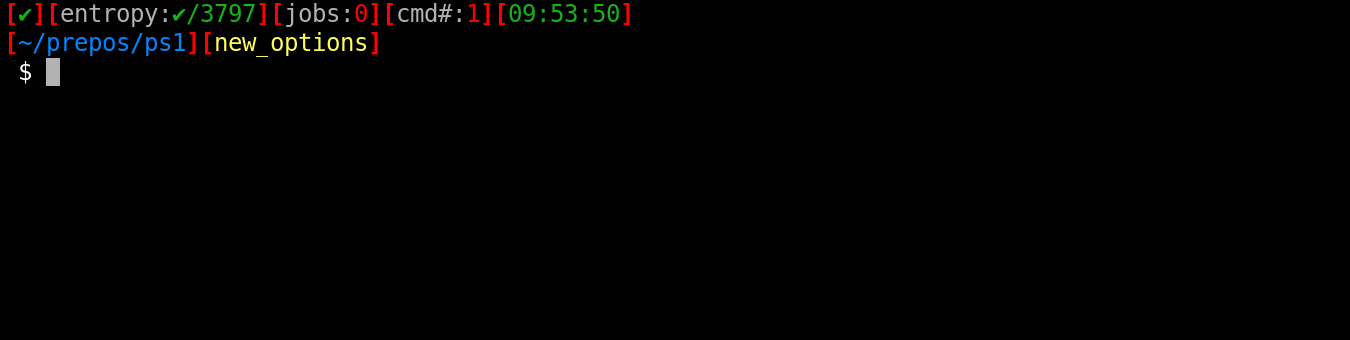
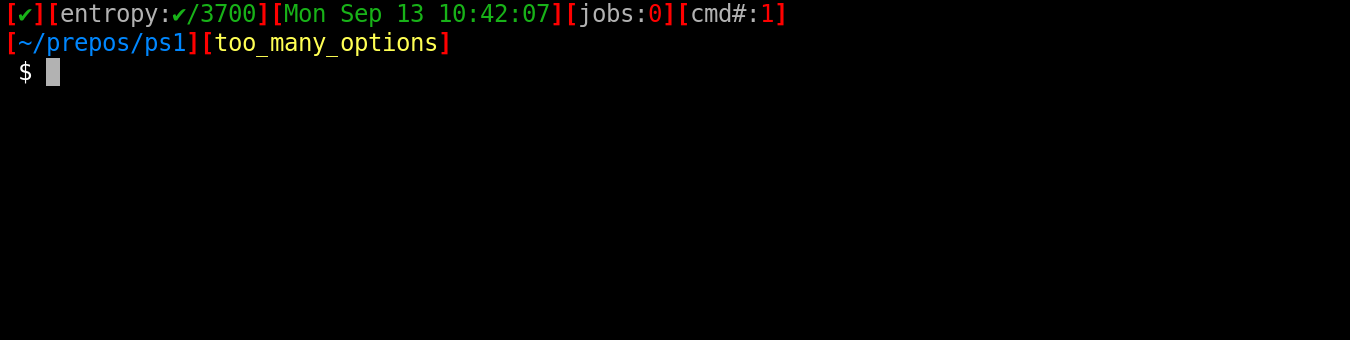
Added too_many_options example
Added option
    --add_date_time_24hr color title

Changed region(s): [[0.1556, 0.0, 0.5911, 0.1765]]

diff --git a/docs/nameIndex.html b/docs/nameIndex.html
@@ -36,7 +36,7 @@
         <h2>A</h2>
         <p class="letterlinks">A - <a href="#B">B</a> - <a href="#C">C</a> - <a href="#D">D</a> - <a href="#F">F</a> - <a href="#G">G</a> - <a href="#H">H</a> - <a href="#I">I</a> - <a href="#J">J</a> - <a href="#N">N</a> - <a href="#O">O</a> - <a href="#P">P</a> - <a href="#S">S</a> - <a href="#T">T</a> - <a href="#U">U</a> - <a href="#W">W</a> - <a href="#_">_</a></p>
         <ul id="summaryTree">
-          <li>add_bash_ver - <code data-type="Method"><a href="ps1api.Base.html#add_bash_ver">ps1api.Base.add_bash_ver</a></code></li><li>add_bash_ver_release - <code data-type="Method"><a href="ps1api.Base.html#add_bash_ver_release">ps1api.Base.add_bash_ver_release</a></code></li><li>add_cmd_num - <code data-type="Method"><a href="ps1api.Base.html#add_cmd_num">ps1api.Base.add_cmd_num</a></code></li><li>add_custom - <code data-type="Method"><a href="ps1api.Base.html#add_custom">ps1api.Base.add_custom</a></code></li><li>add_date_week_month_day - <code data-type="Method"><a href="ps1api.Base.html#add_date_week_month_day">ps1api.Base.add_date_week_month_day</a></code></li><li>add_exit_code - <code data-type="Method"><a href="ps1api.Base.html#add_exit_code">ps1api.Base.add_exit_code</a></code></li><li>add_git_branch - <code data-type="Method"><a href="ps1api.Base.html#add_git_branch">ps1api.Base.add_git_branch</a></code></li><li>add_hist_num - <code data-type="Method"><a href="ps1api.Base.html#add_hist_num">ps1api.Base.add_hist_num</a></code></li><li>add_host - <code data-type="Method"><a href="ps1api.Base.html#add_host">ps1api.Base.add_host</a></code></li><li>add_host_long - <code data-type="Method"><a href="ps1api.Base.html#add_host_long">ps1api.Base.add_host_long</a></code></li><li>add_jobs - <code data-type="Method"><a href="ps1api.Base.html#add_jobs">ps1api.Base.add_jobs</a></code></li><li>add_newline - <code data-type="Method"><a href="ps1api.Base.html#add_newline">ps1api.Base.add_newline</a></code></li><li>add_shell_name - <code data-type="Method"><a href="ps1api.Base.html#add_shell_name">ps1api.Base.add_shell_name</a></code></li><li>add_term_base - <code data-type="Method"><a href="ps1api.Base.html#add_term_base">ps1api.Base.add_term_base</a></code></li><li>add_time_12hr_am_pm - <code data-type="Method"><a href="ps1api.Base.html#add_time_12hr_am_pm">ps1api.Base.add_time_12hr_am_pm</a></code></li><li>add_time_12hr_with_second - <code data-type="Method"><a href="ps1api.Base.html#add_time_12hr_with_second">ps1api.Base.add_time_12hr_with_second</a></code></li><li>add_time_24 - <code data-type="Method"><a href="ps1api.Base.html#add_time_24">ps1api.Base.add_time_24</a></code></li><li>add_user - <code data-type="Method"><a href="ps1api.Base.html#add_user">ps1api.Base.add_user</a></code></li><li>add_user_host - <code data-type="Method"><a href="ps1api.Base.html#add_user_host">ps1api.Base.add_user_host</a></code></li><li>add_working_dir_basename - <code data-type="Method"><a href="ps1api.Base.html#add_working_dir_basename">ps1api.Base.add_working_dir_basename</a></code></li><li>add_working_directory - <code data-type="Method"><a href="ps1api.Base.html#add_working_directory">ps1api.Base.add_working_directory</a></code></li>
+          <li>add_bash_ver - <code data-type="Method"><a href="ps1api.Base.html#add_bash_ver">ps1api.Base.add_bash_ver</a></code></li><li>add_bash_ver_release - <code data-type="Method"><a href="ps1api.Base.html#add_bash_ver_release">ps1api.Base.add_bash_ver_release</a></code></li><li>add_cmd_num - <code data-type="Method"><a href="ps1api.Base.html#add_cmd_num">ps1api.Base.add_cmd_num</a></code></li><li>add_custom - <code data-type="Method"><a href="ps1api.Base.html#add_custom">ps1api.Base.add_custom</a></code></li><li>add_date_time_24hr - <code data-type="Method"><a href="ps1api.Base.html#add_date_time_24hr">ps1api.Base.add_date_time_24hr</a></code></li><li>add_date_week_month_day - <code data-type="Method"><a href="ps1api.Base.html#add_date_week_month_day">ps1api.Base.add_date_week_month_day</a></code></li><li>add_exit_code - <code data-type="Method"><a href="ps1api.Base.html#add_exit_code">ps1api.Base.add_exit_code</a></code></li><li>add_git_branch - <code data-type="Method"><a href="ps1api.Base.html#add_git_branch">ps1api.Base.add_git_branch</a></code></li><li>add_hist_num - <code data-type="Method"><a href="ps1api.Base.html#add_hist_num">ps1api.Base.add_hist_num</a></code></li><li>add_host - <code data-type="Method"><a href="ps1api.Base.html#add_host">ps1api.Base.add_host</a></code></li><li>add_host_long - <code data-type="Method"><a href="ps1api.Base.html#add_host_long">ps1api.Base.add_host_long</a></code></li><li>add_jobs - <code data-type="Method"><a href="ps1api.Base.html#add_jobs">ps1api.Base.add_jobs</a></code></li><li>add_newline - <code data-type="Method"><a href="ps1api.Base.html#add_newline">ps1api.Base.add_newline</a></code></li><li>add_shell_name - <code data-type="Method"><a href="ps1api.Base.html#add_shell_name">ps1api.Base.add_shell_name</a></code></li><li>add_term_base - <code data-type="Method"><a href="ps1api.Base.html#add_term_base">ps1api.Base.add_term_base</a></code></li><li>add_time_12hr_am_pm - <code data-type="Method"><a href="ps1api.Base.html#add_time_12hr_am_pm">ps1api.Base.add_time_12hr_am_pm</a></code></li><li>add_time_12hr_with_second - <code data-type="Method"><a href="ps1api.Base.html#add_time_12hr_with_second">ps1api.Base.add_time_12hr_with_second</a></code></li><li>add_time_24 - <code data-type="Method"><a href="ps1api.Base.html#add_time_24">ps1api.Base.add_time_24</a></code></li><li>add_user - <code data-type="Method"><a href="ps1api.Base.html#add_user">ps1api.Base.add_user</a></code></li><li>add_user_host - <code data-type="Method"><a href="ps1api.Base.html#add_user_host">ps1api.Base.add_user_host</a></code></li><li>add_working_dir_basename - <code data-type="Method"><a href="ps1api.Base.html#add_working_dir_basename">ps1api.Base.add_working_dir_basename</a></code></li><li>add_working_directory - <code data-type="Method"><a href="ps1api.Base.html#add_working_directory">ps1api.Base.add_working_directory</a></code></li>
         </ul>
       
         <a name="B">

diff --git a/docs/ps1api.Base.html b/docs/ps1api.Base.html
@@ -284,7 +284,12 @@
     
     <td>Method</td>
     <td><code><a href="#add_date_week_month_day">add_date_week_month_day</a></code></td>
-    <td><span>Add Date week month day.</span></td>
+    <td><span>Add Date week month day. :: Mon Sep 13</span></td>
+  </tr><tr class="method">
+    
+    <td>Method</td>
+    <td><code><a href="#add_date_time_24hr">add_date_time_24hr</a></code></td>
+    <td><span>Add the date/time, in 24-hour HH:MM:SS format. :: Mon Sep 13 10:28:40</span></td>
   </tr><tr class="method">
     
     <td>Method</td>
@@ -294,17 +299,17 @@
     
     <td>Method</td>
     <td><code><a href="#add_time_24">add_time_24</a></code></td>
-    <td><span>Add The time, in 24-hour HH:MM:SS format.</span></td>
+    <td><span>Add The time, in 24-hour HH:MM:SS format. :: 10:28:40</span></td>
   </tr><tr class="method">
     
     <td>Method</td>
     <td><code><a href="#add_time_12hr_with_second">add_time_12hr_with_second</a></code></td>
-    <td><span>Add The time, in 12-hour HH:MM:SS format.</span></td>
+    <td><span>Add The time, in 12-hour HH:MM:SS format. :: 10:28:40</span></td>
   </tr><tr class="method">
     
     <td>Method</td>
     <td><code><a href="#add_time_12hr_am_pm">add_time_12hr_am_pm</a></code></td>
-    <td><span>Add The time, in 12-hour am/pm format.</span></td>
+    <td><span>Add The time, in 12-hour am/pm format. :: 10:28 AM</span></td>
   </tr><tr class="method">
     
     <td>Method</td>
@@ -1266,7 +1271,29 @@
   <div class="docstring functionBody">
     
     
-    <div><p>Add Date week month day.</p><table class="fieldTable"><tr class="fieldStart"><td class="fieldName">Parameters</td><td class="fieldArg">color</td><td><span class="undocumented">Undocumented</span> (type: <code>str</code>)</td></tr><tr><td></td><td class="fieldArg">title</td><td><span class="undocumented">Undocumented</span> (type: <code>str</code>)</td></tr></table></div>
+    <div><p>Add Date week month day. :</p><pre class="literalblock">
+    Mon Sep 13
+</pre><table class="fieldTable"><tr class="fieldStart"><td class="fieldName">Parameters</td><td class="fieldArg">color</td><td><span class="undocumented">Undocumented</span> (type: <code>str</code>)</td></tr><tr><td></td><td class="fieldArg">title</td><td><span class="undocumented">Undocumented</span> (type: <code>str</code>)</td></tr></table></div>
+  </div>
+</div><div class="basemethod">
+  
+  <a name="ps1api.Base.add_date_time_24hr">
+    
+  </a>
+  <a name="add_date_time_24hr">
+    
+  </a>
+  <div class="functionHeader">
+    
+    <span class="py-keyword">def</span> <span class="py-defname">add_date_time_24hr</span>(self, color='', title=''):
+    
+  </div>
+  <div class="docstring functionBody">
+    
+    
+    <div><p>Add the date/time, in 24-hour HH:MM:SS format. :</p><pre class="literalblock">
+    Mon Sep 13 10:28:40
+</pre><table class="fieldTable"><tr class="fieldStart"><td class="fieldName">Parameters</td><td class="fieldArg">color</td><td><span class="undocumented">Undocumented</span> (type: <code>str</code>)</td></tr><tr><td></td><td class="fieldArg">title</td><td><span class="undocumented">Undocumented</span> (type: <code>str</code>)</td></tr></table></div>
   </div>
 </div><div class="basemethod">
   
@@ -1302,7 +1329,9 @@
   <div class="docstring functionBody">
     
     
-    <div><p>Add The time, in 24-hour HH:MM:SS format.</p><table class="fieldTable"><tr class="fieldStart"><td class="fieldName">Parameters</td><td class="fieldArg">color</td><td><span class="undocumented">Undocumented</span> (type: <code>str</code>)</td></tr><tr><td></td><td class="fieldArg">title</td><td><span class="undocumented">Undocumented</span> (type: <code>str</code>)</td></tr></table></div>
+    <div><p>Add The time, in 24-hour HH:MM:SS format. :</p><pre class="literalblock">
+    10:28:40
+</pre><table class="fieldTable"><tr class="fieldStart"><td class="fieldName">Parameters</td><td class="fieldArg">color</td><td><span class="undocumented">Undocumented</span> (type: <code>str</code>)</td></tr><tr><td></td><td class="fieldArg">title</td><td><span class="undocumented">Undocumented</span> (type: <code>str</code>)</td></tr></table></div>
   </div>
 </div><div class="basemethod">
   
@@ -1320,7 +1349,9 @@
   <div class="docstring functionBody">
     
     
-    <div><p>Add The time, in 12-hour HH:MM:SS format.</p><table class="fieldTable"><tr class="fieldStart"><td class="fieldName">Parameters</td><td class="fieldArg">color</td><td><span class="undocumented">Undocumented</span> (type: <code>str</code>)</td></tr><tr><td></td><td class="fieldArg">title</td><td><span class="undocumented">Undocumented</span> (type: <code>str</code>)</td></tr></table></div>
+    <div><p>Add The time, in 12-hour HH:MM:SS format. :</p><pre class="literalblock">
+    10:28:40
+</pre><table class="fieldTable"><tr class="fieldStart"><td class="fieldName">Parameters</td><td class="fieldArg">color</td><td><span class="undocumented">Undocumented</span> (type: <code>str</code>)</td></tr><tr><td></td><td class="fieldArg">title</td><td><span class="undocumented">Undocumented</span> (type: <code>str</code>)</td></tr></table></div>
   </div>
 </div><div class="basemethod">
   
@@ -1338,7 +1369,9 @@
   <div class="docstring functionBody">
     
     
-    <div><p>Add The time, in 12-hour am/pm format.</p><table class="fieldTable"><tr class="fieldStart"><td class="fieldName">Parameters</td><td class="fieldArg">color</td><td><span class="undocumented">Undocumented</span> (type: <code>str</code>)</td></tr><tr><td></td><td class="fieldArg">title</td><td><span class="undocumented">Undocumented</span> (type: <code>str</code>)</td></tr></table></div>
+    <div><p>Add The time, in 12-hour am/pm format. :</p><pre class="literalblock">
+    10:28 AM
+</pre><table class="fieldTable"><tr class="fieldStart"><td class="fieldName">Parameters</td><td class="fieldArg">color</td><td><span class="undocumented">Undocumented</span> (type: <code>str</code>)</td></tr><tr><td></td><td class="fieldArg">title</td><td><span class="undocumented">Undocumented</span> (type: <code>str</code>)</td></tr></table></div>
   </div>
 </div><div class="basemethod">
   

diff --git a/docs/ps1api.Parrot.html b/docs/ps1api.Parrot.html
@@ -292,7 +292,12 @@
     
     <td>Method</td>
     <td><code><a href="ps1api.Base.html#add_date_week_month_day">add_date_week_month_day</a></code></td>
-    <td><span>Add Date week month day.</span></td>
+    <td><span>Add Date week month day. :: Mon Sep 13</span></td>
+  </tr><tr class="basemethod">
+    
+    <td>Method</td>
+    <td><code><a href="ps1api.Base.html#add_date_time_24hr">add_date_time_24hr</a></code></td>
+    <td><span>Add the date/time, in 24-hour HH:MM:SS format. :: Mon Sep 13 10:28:40</span></td>
   </tr><tr class="basemethod">
     
     <td>Method</td>
@@ -302,17 +307,17 @@
     
     <td>Method</td>
     <td><code><a href="ps1api.Base.html#add_time_24">add_time_24</a></code></td>
-    <td><span>Add The time, in 24-hour HH:MM:SS format.</span></td>
+    <td><span>Add The time, in 24-hour HH:MM:SS format. :: 10:28:40</span></td>
   </tr><tr class="basemethod">
     
     <td>Method</td>
     <td><code><a href="ps1api.Base.html#add_time_12hr_with_second">add_time_12hr_with_second</a></code></td>
-    <td><span>Add The time, in 12-hour HH:MM:SS format.</span></td>
+    <td><span>Add The time, in 12-hour HH:MM:SS format. :: 10:28:40</span></td>
   </tr><tr class="basemethod">
     
     <td>Method</td>
     <td><code><a href="ps1api.Base.html#add_time_12hr_am_pm">add_time_12hr_am_pm</a></code></td>
-    <td><span>Add The time, in 12-hour am/pm format.</span></td>
+    <td><span>Add The time, in 12-hour am/pm format. :: 10:28 AM</span></td>
   </tr><tr class="basemethod">
     
     <td>Method</td>

diff --git a/docs/ps1api.ParrotGit.html b/docs/ps1api.ParrotGit.html
@@ -292,7 +292,12 @@
     
     <td>Method</td>
     <td><code><a href="ps1api.Base.html#add_date_week_month_day">add_date_week_month_day</a></code></td>
-    <td><span>Add Date week month day.</span></td>
+    <td><span>Add Date week month day. :: Mon Sep 13</span></td>
+  </tr><tr class="basemethod">
+    
+    <td>Method</td>
+    <td><code><a href="ps1api.Base.html#add_date_time_24hr">add_date_time_24hr</a></code></td>
+    <td><span>Add the date/time, in 24-hour HH:MM:SS format. :: Mon Sep 13 10:28:40</span></td>
   </tr><tr class="basemethod">
     
     <td>Method</td>
@@ -302,17 +307,17 @@
     
     <td>Method</td>
     <td><code><a href="ps1api.Base.html#add_time_24">add_time_24</a></code></td>
-    <td><span>Add The time, in 24-hour HH:MM:SS format.</span></td>
+    <td><span>Add The time, in 24-hour HH:MM:SS format. :: 10:28:40</span></td>
   </tr><tr class="basemethod">
     
     <td>Method</td>
     <td><code><a href="ps1api.Base.html#add_time_12hr_with_second">add_time_12hr_with_second</a></code></td>
-    <td><span>Add The time, in 12-hour HH:MM:SS format.</span></td>
+    <td><span>Add The time, in 12-hour HH:MM:SS format. :: 10:28:40</span></td>
   </tr><tr class="basemethod">
     
     <td>Method</td>
     <td><code><a href="ps1api.Base.html#add_time_12hr_am_pm">add_time_12hr_am_pm</a></code></td>
-    <td><span>Add The time, in 12-hour am/pm format.</span></td>
+    <td><span>Add The time, in 12-hour am/pm format. :: 10:28 AM</span></td>
   </tr><tr class="basemethod">
     
     <td>Method</td>

diff --git a/src/ps1api/__init__.py b/src/ps1api/__init__.py
@@ -350,8 +350,24 @@ class Base(object):
     ):
         """
         Add Date week month day.
+        ::
+            Mon Sep 13
         """
         self.sections.append((self.DATE_WEEK_MONTH_DAY, color, title))
+        return self
+
+    def add_date_time_24hr(
+        self,
+        color: str = "",
+        title: str = "",
+    ):
+        """
+        Add the date/time, in 24-hour HH:MM:SS format.
+        ::
+            Mon Sep 13 10:28:40
+        """
+        val = " ".join([self.DATE_WEEK_MONTH_DAY, self.TIME_24])
+        self.sections.append((val, color, title))
         return self
 
     def add_shell_name(
@@ -372,6 +388,8 @@ class Base(object):
     ):
         """
         Add The time, in 24-hour HH:MM:SS format.
+        ::
+            10:28:40
         """
         self.sections.append((self.TIME_24, color, title))
         return self
@@ -383,6 +401,8 @@ class Base(object):
     ):
         """
         Add The time, in 12-hour HH:MM:SS format.
+        ::
+            10:28:40
         """
         self.sections.append((self.TIME_12HR_W_SECOND, color, title))
         return self
@@ -394,6 +414,8 @@ class Base(object):
     ):
         """
         Add The time, in 12-hour am/pm format.
+        ::
+            10:28 AM
         """
         self.sections.append((self.TIME_12HR_AM_PM, color, title))
         return self

diff --git a/README.md b/README.md
@@ -44,7 +44,7 @@ export PS1="$(ps1 template -t parrot)"
 ### Custom
 ```
 usage: ps1 custom [-h] [--add_bash_ver color title] [--add_bash_ver_release color title] [--add_cmd_num color title]
-                        [--add_custom value color title] [--add_date_week_month_day color title]
+                        [--add_custom value color title] [--add_date_time_24hr color title] [--add_date_week_month_day color title]
                         [--add_exit_code ok_txt err_txt ok_color err_color title] [--add_git_branch color title]
                         [--add_hist_num color title] [--add_host color title] [--add_host_long color title] [--add_jobs color title]
                         [--add_newline] [--add_shell_name color title] [--add_term_base color title]
@@ -64,8 +64,14 @@ optional arguments:
                         Add Number of commands this terminal has run.
   --add_custom value color title
                         Add custom section value/color.
+  --add_date_time_24hr color title
+                        Add the date/time, in 24-hour HH:MM:SS format.
+                        ::
+                            Mon Sep 13 10:28:40
   --add_date_week_month_day color title
                         Add Date week month day.
+                        ::
+                            Mon Sep 13
   --add_exit_code ok_txt err_txt ok_color err_color title
                         Add Exit code indicator to prompt.
   --add_git_branch color title
@@ -85,10 +91,16 @@ optional arguments:
                         Add The basename of the shell's terminal device name.
   --add_time_12hr_am_pm color title
                         Add The time, in 12-hour am/pm format.
+                        ::
+                            10:28 AM
   --add_time_12hr_with_second color title
                         Add The time, in 12-hour HH:MM:SS format.
+                        ::
+                            10:28:40
   --add_time_24 color title
                         Add The time, in 24-hour HH:MM:SS format.
+                        ::
+                            10:28:40
   --add_user color title
                         Add PS1 user expansion value.
   --add_user_host user_color at_sym_color host_color
@@ -204,6 +216,10 @@ optional arguments:
 
 ### [stev0_work.sh](https://github.com/shollingsworth/ps1/blob/main/src/ps1api/examples/dark/stev0_work.sh)
 ![stev0_work.sh](https://raw.githubusercontent.com/shollingsworth/ps1/main/media/dark/stev0_work.sh.png)
+
+
+### [too_many_options.sh](https://github.com/shollingsworth/ps1/blob/main/src/ps1api/examples/dark/too_many_options.sh)
+![too_many_options.sh](https://raw.githubusercontent.com/shollingsworth/ps1/main/media/dark/too_many_options.sh.png)
 
 
 ### [fire_ice.sh](https://github.com/shollingsworth/ps1/blob/main/src/ps1api/examples/light/fire_ice.sh)

diff --git a/CHANGELOG.md b/CHANGELOG.md
@@ -1,6 +1,18 @@
+# v0.0.8
+#### Added too_many_options example
+> 2021-09-13 17:43 UTC [HEAD](https://github.com/shollingsworth/ps1/commit/HEAD)
+
+```
+Added option
+    --add_date_time_24hr color title
+```
+#### Updated format of readme
+> 2021-09-13 17:00 UTC [0d7b0ea](https://github.com/shollingsworth/ps1/commit/0d7b0eaa2d27a9253cffcf5df991f6899dcfe8dd)
+
+---
 # v0.0.7
 #### Added a bunch of bash native ps1api class options
-> 2021-09-13 16:55 UTC [HEAD](https://github.com/shollingsworth/ps1/commit/HEAD)
+> 2021-09-13 16:56 UTC [bd207ca](https://github.com/shollingsworth/ps1/commit/bd207caadddbd33eff5b9e1ae3892170bc7c887b)
 
 ```
 added stev0_work example
